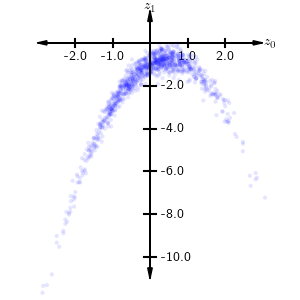
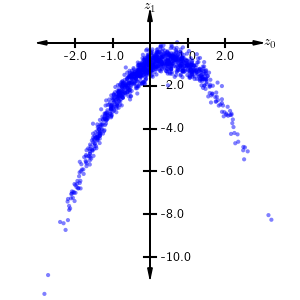
added plots for the banana color distribution

diff --git a/docs/searchindex.js b/docs/searchindex.js
@@ -1,1 +1,1 @@
-Search.setIndex({docnames:["index","normalizingFlows/1Dexample","normalizingFlows/2DexampleList","normalizingFlows/2Dexamples/example1","normalizingFlows/changeofvariables","normalizingFlows/math","usage/installation"],envversion:{"sphinx.domains.c":2,"sphinx.domains.changeset":1,"sphinx.domains.citation":1,"sphinx.domains.cpp":3,"sphinx.domains.index":1,"sphinx.domains.javascript":2,"sphinx.domains.math":2,"sphinx.domains.python":3,"sphinx.domains.rst":2,"sphinx.domains.std":2,sphinx:56},filenames:["index.rst","normalizingFlows/1Dexample.rst","normalizingFlows/2DexampleList.rst","normalizingFlows/2Dexamples/example1.rst","normalizingFlows/changeofvariables.rst","normalizingFlows/math.rst","usage/installation.rst"],objects:{},objnames:{},objtypes:{},terms:{"0":[1,3,4],"1":[1,3,4],"1d":[0,5],"2":3,"2d":[0,3,5],"3":1,"3y":1,"4":1,"95":3,"case":[3,4],"function":[1,3,4],"import":[2,3,4],"while":3,A:3,As:4,For:1,In:3,Such:4,The:[1,3,5],abl:4,abov:1,absolut:[1,3],all:[1,4],also:[1,3,4],an:3,ani:4,ar:[1,2,3,4],assum:4,b:3,background:0,banana:[2,5],becaus:2,becom:3,been:[2,3],begin:[3,4],below:1,bmatrix:[3,4],calcualt:3,calcul:[1,3,4],can:[1,3,4],cdot:4,chang:5,circumst:4,color:3,comput:3,contour:3,correspond:3,d:[2,4],defin:3,definit:[1,3],densiti:[1,3],depend:4,deriv:1,det:[1,3,4],detail:1,determin:[1,3,4],diagon:3,differ:3,difficult:4,discuss:3,distribut:[1,2,4,5],document:6,don:3,done:3,dont:3,drawn:3,e:1,each:3,earlier:3,element:4,els:1,elsewher:1,end:[3,4],entir:3,equat:4,estiamt:3,everywher:1,exampl:[0,4,5],f:[1,3,4],f_0:4,f_1:4,f_:4,fig:3,first:3,flow:3,follow:[1,3],form:3,formula:5,frac:[1,3,4],from:[1,3],gaussian:[2,5],gener:4,given:[1,3,4],go:[1,3],ha:3,had:3,have:[1,2,3],henc:3,here:2,how:3,i:1,independ:[1,3],index:0,indic:[1,3],inform:4,informaiton:3,instal:0,invers:[1,3],its:3,jacobian:[1,3,4],just:3,know:[3,4],later:3,ldot:4,left:[1,3,4],let:[1,3,4],look:[1,3,4],lower:3,make:4,map:[1,3,4],master:2,mathbb:[1,3,4],mathbf:[1,3,4],mathcal:3,mathemat:0,matrix:[1,3],mean:4,mention:1,modul:0,most:4,n:[2,3,4],nabla_:[1,3,4],need:1,normal:3,notic:[3,4],now:[1,3,4],onc:2,onli:1,out:4,over:3,p_:3,page:0,partial:[1,3,4],pdf:[3,4],plane:3,plot:3,point:3,possibl:[1,3,4],product:3,q_:[1,3,4],q_y:[1,4],q_z:4,question:4,r:[1,3,4],random:4,rang:1,refer:1,regard:4,relationship:4,rememb:3,repres:[1,3,4],respect:1,result:2,right:[1,3,4],rightarrow:4,s:[1,4],sampl:3,search:0,section:4,shall:[1,2,3,4],should:[1,3],shown:[1,3],sigma:3,significantli:4,sim:3,similarli:4,simpl:[1,3,4,6],sinc:1,singl:1,some:[2,4,6],specif:3,standard:3,studi:2,subsequ:[2,4],support:3,sure:4,t:[3,4],term:4,thankfulli:3,thi:[1,3,4,6],thu:[1,3],time:3,transform:[1,2,3],transpos:4,triangular:3,trivial:[1,2],turn:4,two:3,under:4,understand:4,uniform:[1,3],uniformli:1,upon:4,us:[3,4],valu:[1,3],variabl:[1,5],vdot:4,vector:4,veri:[1,3],visual:1,wai:3,we:[1,2,3,4],well:4,what:4,when:3,where:4,y:[1,3,4],y_0:[3,4],y_1:[3,4],y_:4,yet:3,z:[1,3,4],z_0:[3,4],z_1:[3,4],z_:4},titles:["Welcome to normalizingFlows\u2019s documentation!","1D Example","2D examples","Gaussian to banana distributions","Mathematical background","Mathematical background","installation"],titleterms:{"1d":1,"2d":2,The:4,background:[4,5],banana:3,chang:4,content:[0,2,5],distribut:3,document:0,exampl:[1,2],formula:4,gaussian:3,indic:0,instal:6,mathemat:[4,5],normalizingflow:0,result:3,s:0,tabl:0,variabl:4,welcom:0}})
+Search.setIndex({docnames:["index","normalizingFlows/1Dexample","normalizingFlows/2DexampleList","normalizingFlows/2Dexamples/example1","normalizingFlows/changeofvariables","normalizingFlows/math","usage/installation"],envversion:{"sphinx.domains.c":2,"sphinx.domains.changeset":1,"sphinx.domains.citation":1,"sphinx.domains.cpp":3,"sphinx.domains.index":1,"sphinx.domains.javascript":2,"sphinx.domains.math":2,"sphinx.domains.python":3,"sphinx.domains.rst":2,"sphinx.domains.std":2,sphinx:56},filenames:["index.rst","normalizingFlows/1Dexample.rst","normalizingFlows/2DexampleList.rst","normalizingFlows/2Dexamples/example1.rst","normalizingFlows/changeofvariables.rst","normalizingFlows/math.rst","usage/installation.rst"],objects:{},objnames:{},objtypes:{},terms:{"0":[1,3,4],"1":[1,3,4],"1d":[0,5],"2":3,"2d":[0,3,5],"3":[1,3],"3y":1,"4":1,"95":3,"case":[3,4],"function":[1,3,4],"import":[2,3,4],"while":3,A:3,As:4,For:1,In:3,Such:4,The:[1,3,5],abl:4,abov:[1,3],absolut:[1,3],all:[1,4],also:[1,3,4],an:3,ani:4,ar:[1,2,3,4],assum:4,b:3,background:0,banana:[2,5],becaus:2,becom:3,been:[2,3],begin:[3,4],below:1,bmatrix:[3,4],calcualt:3,calcul:[1,3,4],can:[1,3,4],cdot:4,chang:5,circumst:4,color:3,comput:3,contour:3,correspond:3,d:[2,4],defin:3,definit:[1,3],densiti:[1,3],depend:4,deriv:1,det:[1,3,4],detail:1,determin:[1,3,4],diagon:3,differ:3,difficult:4,discuss:3,distribut:[1,2,4,5],document:6,don:3,done:3,dont:3,drawn:3,e:1,each:3,earlier:3,element:4,els:1,elsewher:1,end:[3,4],entir:3,equat:4,estiamt:3,everywher:1,exampl:[0,4,5],f:[1,3,4],f_0:4,f_1:4,f_:4,fig:3,first:3,flow:3,follow:[1,3],form:3,formula:5,frac:[1,3,4],from:[1,3],gaussian:[2,5],gener:4,given:[1,3,4],go:[1,3],ha:3,had:3,have:[1,2,3],henc:3,here:2,how:3,i:1,independ:[1,3],index:0,indic:[1,3],inform:4,informaiton:3,instal:0,invers:[1,3],its:3,jacobian:[1,3,4],just:3,know:[3,4],later:3,ldot:4,left:[1,3,4],let:[1,3,4],look:[1,3,4],lower:3,make:4,map:[1,3,4],master:2,mathbb:[1,3,4],mathbf:[1,3,4],mathcal:3,mathemat:0,matrix:[1,3],mean:4,mention:1,modul:0,most:4,n:[2,3,4],nabla_:[1,3,4],need:1,next:3,normal:3,notic:[3,4],now:[1,3,4],onc:2,onli:1,out:4,over:3,p_:3,page:0,part:3,partial:[1,3,4],pdf:[3,4],plane:3,plot:3,point:3,possibl:[1,3,4],product:3,q_:[1,3,4],q_y:[1,4],q_z:4,question:4,r:[1,3,4],random:4,rang:1,refer:1,regard:4,relationship:4,rememb:3,repres:[1,3,4],respect:1,result:2,right:[1,3,4],rightarrow:4,s:[1,4],sampl:3,search:0,section:4,see:3,shall:[1,2,3,4],should:[1,3],shown:[1,3],sigma:3,significantli:4,sim:3,similarli:4,simpl:[1,3,4,6],sinc:1,singl:1,some:[2,4,6],space:3,specif:3,standard:3,studi:2,subsequ:[2,4],support:3,sure:4,t:[3,4],term:4,thankfulli:3,thi:[1,3,4,6],thu:[1,3],time:3,transform:[1,2,3],transpos:4,triangular:3,trivial:[1,2],turn:4,two:3,under:4,understand:4,uniform:[1,3],uniformli:1,upon:4,us:[3,4],valu:[1,3],variabl:[1,5],vdot:4,vector:4,veri:[1,3],visual:1,wai:3,we:[1,2,3,4],well:4,what:4,when:3,where:4,y:[1,3,4],y_0:[3,4],y_1:[3,4],y_:4,yet:3,z:[1,3,4],z_0:[3,4],z_1:[3,4],z_:4},titles:["Welcome to normalizingFlows\u2019s documentation!","1D Example","2D examples","Gaussian to banana distributions","Mathematical background","Mathematical background","installation"],titleterms:{"1d":1,"2d":2,The:4,background:[4,5],banana:3,chang:4,content:[0,2,5],distribut:3,document:0,exampl:[1,2],formula:4,gaussian:3,indic:0,instal:6,mathemat:[4,5],normalizingflow:0,result:3,s:0,tabl:0,variabl:4,welcom:0}})

diff --git a/docs/normalizingFlows/2Dexamples/example1.html b/docs/normalizingFlows/2Dexamples/example1.html
@@ -202,7 +202,7 @@ y_1 - y_0^2 -1
 1        &amp; 0 \\
 -2 y_0    &amp; 1
 \end{bmatrix}\end{split}\]</div>
-<ol class="arabic simple">
+<ol class="arabic simple" start="2">
 <li><p>Calculating the determinant of this matrix. Thankfully, this is an lower-triangular matrix and its
 determinant is just the product of its diagonals. (Remember this informaiton. This will become very
 important later when we discuss normalizing flows).</p></li>
@@ -214,7 +214,7 @@ important later when we discuss normalizing flows).</p></li>
 -2 y_0    &amp; 1
 \end{bmatrix}
 = 1\end{split}\]</div>
-<ol class="arabic simple">
+<ol class="arabic simple" start="3">
 <li><p>Calculating the absolute value of the determinant of this matrix:</p></li>
 </ol>
 <div class="math notranslate nohighlight">
@@ -271,6 +271,8 @@ distribution have been drawn and plotted.</span><a class="headerlink" href="#gau
 <p>In <a class="reference internal" href="#gaussian"><span class="std std-numref">Fig. 1</span></a> (a) the 2D Normal distribution has been plotted, while in <a class="reference internal" href="#gaussian"><span class="std std-numref">Fig. 1</span></a> (b), samples
 drawn from this distribution have been plotted. The color of each point corresponds to the value of the PDF at
 that point. In this case, we know the PDF for the Gaussian density at each point.</p>
+<p>Next, we shall map the points from the <span class="math notranslate nohighlight">\(\mathbf y\)</span> space to the <span class="math notranslate nohighlight">\(\mathbf z\)</span> space using the transformation
+<span class="math notranslate nohighlight">\(\mathbf z = f(\mathbf y)\)</span>. See part 3 of the calculations above.</p>
 <div class="figure align-center" id="banana">
 <img alt="https://raw.githubusercontent.com/sankhaMukherjee/normalizingFlows/master/results/img/0001_banana.png" src="https://raw.githubusercontent.com/sankhaMukherjee/normalizingFlows/master/results/img/0001_banana.png" />
 <p class="caption"><span class="caption-number">Fig. 2 </span><span class="caption-text">The mapping of the points sampled in the gaussian distribution to the banana distribution. Notice

diff --git a/src/examples/banana-npy.py b/src/examples/banana-npy.py
@@ -91,6 +91,47 @@ def plotGaussianDensity(xx, yy, vals, ys, colors, outFile):
 
     return
 
+def plotBananaPoints(z, colors, outFile):
+
+    z0 = z[:, 0]
+    z0 = z[:, 1]
+
+    plt.figure(figsize=(3, 3))
+    axs = [
+        # plt.axes([0,0,1,1], facecolor='None' ),
+        plt.axes([0,0,1,1], facecolor='None' ),
+    ]
+    for ax in axs:
+        for s in ['right', 'top', 'left', 'bottom']:
+            ax.spines[s].set_visible(False)
+            ax.set_xticks([])
+            ax.set_yticks([])
+
+    axs[0].scatter(z[:,0], z[:,1], marker='.', c = colors, alpha=0.5, edgecolors='none', zorder=20)
+    axs[0].set_xlim([-4,4])
+    axs[0].set_ylim([-12, 2])
+
+    axs[0].arrow(0,  -11, 0,  12.5, length_includes_head = True, zorder=100, head_length = 0.5, head_width=0.12, fc='k')
+    axs[0].arrow(0,  1.5, 0, -12.5, length_includes_head = True, zorder=100, head_length = 0.5, head_width=0.12, fc='k')
+    axs[0].arrow(-3, 0,  6, 0, length_includes_head = True, zorder=100, head_length = 0.25, head_width=0.2, fc='k')
+    axs[0].arrow( 3, 0, -6, 0, length_includes_head = True, zorder=100, head_length = 0.25, head_width=0.2, fc='k')
+
+    for j in np.linspace(-10, -2, 5):
+        axs[0].plot([-0.15, 0.15], [j,j], color='k')
+        axs[0].text( 0.3, j, f'{j}', ha='left', va='center' )
+
+    for j in np.linspace(-2, 2, 5):
+        if j:
+            axs[0].plot([j, j], [-0.2, 0.2], color='k')
+            axs[0].text( j, -0.35, f'{j}', ha='center', va='top' )
+
+    axs[0].text(3.2, 0, '$z_0$', ha='center', va='center')
+    axs[0].text(0, 1.7, '$z_1$', ha='center', va='center')
+
+    plt.savefig(outFile)
+
+    return
+
 def main():
     print('banana distribution')
 
@@ -123,54 +164,27 @@ def main():
     vals   = get2Ddensity(vals, mean, cov)
     vals   = vals.reshape(xx.shape)
     
-    
+    #----------------------------------------------------------------
+    # Map the samples to the new distribution
+    #----------------------------------------------------------------
     z0 = ys[:, 0]
     z1 = ys[:, 1]
     z1 = z1 - z0**2 -1
     z  = np.vstack((z0, z1)).T
     print(z.shape)
 
-    plt.figure(figsize=(3, 3))
-    axs = [
-        # plt.axes([0,0,1,1], facecolor='None' ),
-        plt.axes([0,0,1,1], facecolor='None' ),
-    ]
-    for ax in axs:
-        for s in ['right', 'top', 'left', 'bottom']:
-            ax.spines[s].set_visible(False)
-            ax.set_xticks([])
-            ax.set_yticks([])
-
-    axs[0].scatter(z[:,0], z[:,1], marker='.', c = 'blue', alpha=0.1, edgecolors='none', zorder=20)
-    axs[0].set_xlim([-4,4])
-    axs[0].set_ylim([-12, 2])
-
-    axs[0].arrow(0,  -11, 0,  12.5, length_includes_head = True, zorder=100, head_length = 0.5, head_width=0.12, fc='k')
-    axs[0].arrow(0,  1.5, 0, -12.5, length_includes_head = True, zorder=100, head_length = 0.5, head_width=0.12, fc='k')
-    axs[0].arrow(-3, 0,  6, 0, length_includes_head = True, zorder=100, head_length = 0.25, head_width=0.2, fc='k')
-    axs[0].arrow( 3, 0, -6, 0, length_includes_head = True, zorder=100, head_length = 0.25, head_width=0.2, fc='k')
-
-    for j in np.linspace(-10, -2, 5):
-        axs[0].plot([-0.15, 0.15], [j,j], color='k')
-        axs[0].text( 0.3, j, f'{j}', ha='left', va='center' )
-
-    for j in np.linspace(-2, 2, 5):
-        if j:
-            axs[0].plot([j, j], [-0.2, 0.2], color='k')
-            axs[0].text( j, -0.35, f'{j}', ha='center', va='top' )
-
-    axs[0].text(3.2, 0, '$z_0$', ha='center', va='center')
-    axs[0].text(0, 1.7, '$z_1$', ha='center', va='center')
-
-
-    outFile = 'results/img/0001_banana.png'
-    plt.savefig(outFile)
-
+    
     # -------------------------------------
     # Plot the results
     # -------------------------------------
     outFile = 'results/img/0001_gaussian.png'
     plotGaussianDensity(xx, yy, vals, ys, colors, outFile)
+    
+    outFile = 'results/img/0001_banana.png'
+    plotBananaPoints(z, colors='blue', outFile=outFile)
+    
+    outFile = 'results/img/0001_banana_color.png'
+    plotBananaPoints(z, colors=colors, outFile=outFile)
     
 
 

diff --git a/myDocs/source/normalizingFlows/2Dexamples/example1.rst b/myDocs/source/normalizingFlows/2Dexamples/example1.rst
@@ -32,7 +32,7 @@ Let us follow the computations as we had done earlier:
        -2 y_0    & 1
        \end{bmatrix}  
 
-1. Calculating the determinant of this matrix. Thankfully, this is an lower-triangular matrix and its
+2. Calculating the determinant of this matrix. Thankfully, this is an lower-triangular matrix and its
    determinant is just the product of its diagonals. (Remember this informaiton. This will become very
    important later when we discuss normalizing flows).
 
@@ -45,7 +45,7 @@ Let us follow the computations as we had done earlier:
        \end{bmatrix}  
        = 1
 
-1. Calculating the absolute value of the determinant of this matrix:
+3. Calculating the absolute value of the determinant of this matrix:
 
 .. math::
 
@@ -122,17 +122,19 @@ In :numref:`gaussian` (a) the 2D Normal distribution has been plotted, while in 
 drawn from this distribution have been plotted. The color of each point corresponds to the value of the PDF at
 that point. In this case, we know the PDF for the Gaussian density at each point. 
 
-
-
+Next, we shall map the points from the :math:`\mathbf y` space to the :math:`\mathbf z` space using the transformation
+:math:`\mathbf z = f(\mathbf y)`. See part 3 of the calculations above.
 
 .. figure:: https://raw.githubusercontent.com/sankhaMukherjee/normalizingFlows/master/results/img/0001_banana.png
        :align: center
        :name: banana
 
-       The mapping of the points sampled in the gaussian distribution to the banana distribution. Notice
-       that we don't yet know the distribution of the banana distribution, and hence we dont know how
-       to color the points yet.
+       The mapping of the points sampled in the gaussian distribution to the banana distribution. 
 
+Notice that we don't yet know the distribution of the banana distribution, and hence we dont know how to 
+color the points yet. For this, we shall use the formula shown in part 5 of the calculations. Since the
+Jacobian determinant is 1, there is a one-to-one correspondence between the densities of the old point
+and the new points. Let us calculate this density
 
 
 
